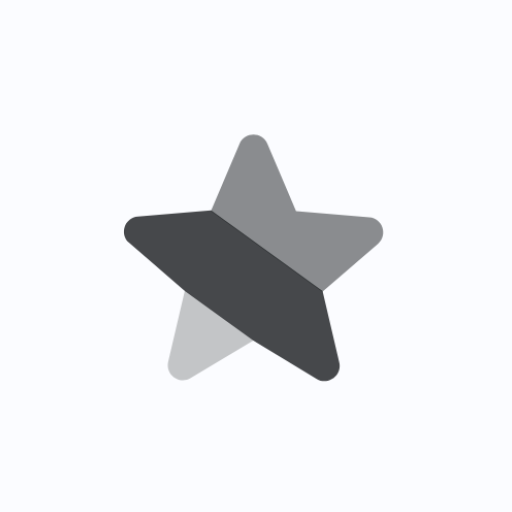
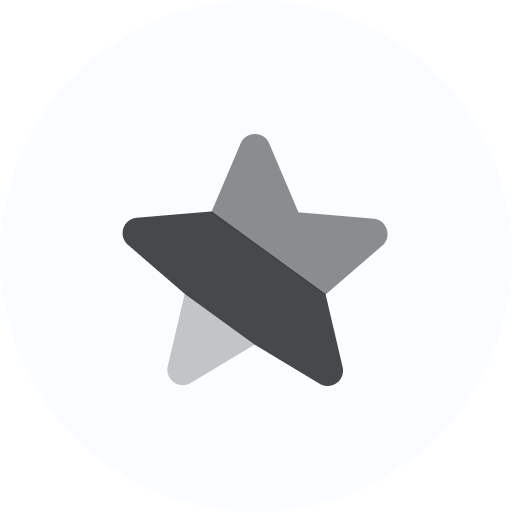
Public signature key

diff --git a/README-zh.md b/README-zh.md
@@ -1,5 +1,5 @@
 <div align="center">
-    <img width="200" height="200" style="display: block; border: 1px solid #f5f5f5; border-radius: 9999px;" src="./APP_ICON.png">
+    <img width="200" height="200" style="display: block; border: 1px solid #f5f5f5; border-radius: 9999px;" src="./fastlane/metadata/android/en-US/images/icon.png">
 </div>
 
 <br>

diff --git a/README.md b/README.md
@@ -1,5 +1,5 @@
 <div align="center">
-    <img width="200" height="200" style="display: block; border: 1px solid #f5f5f5; border-radius: 9999px;" src="./APP_ICON.png">
+    <img width="200" height="200" style="display: block; border: 1px solid #f5f5f5; border-radius: 9999px;" src="./fastlane/metadata/android/en-US/images/icon.png">
 </div>
 
 <br>
